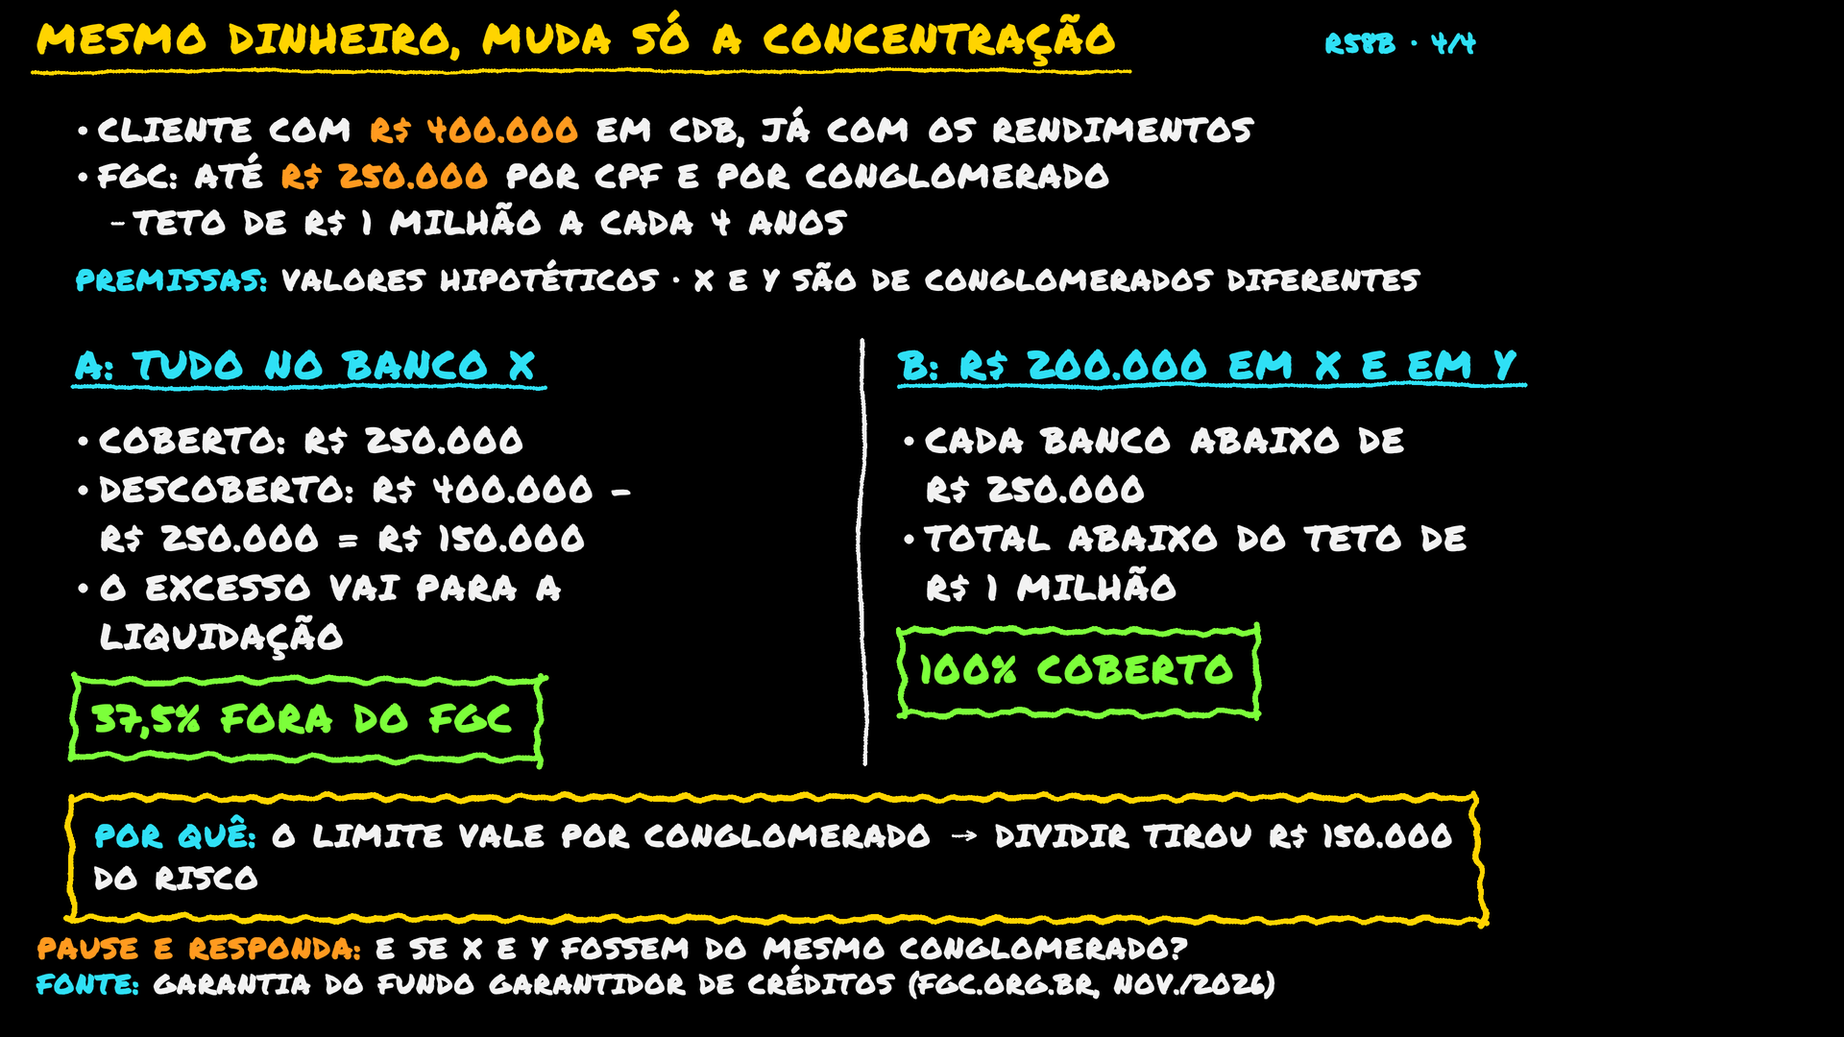
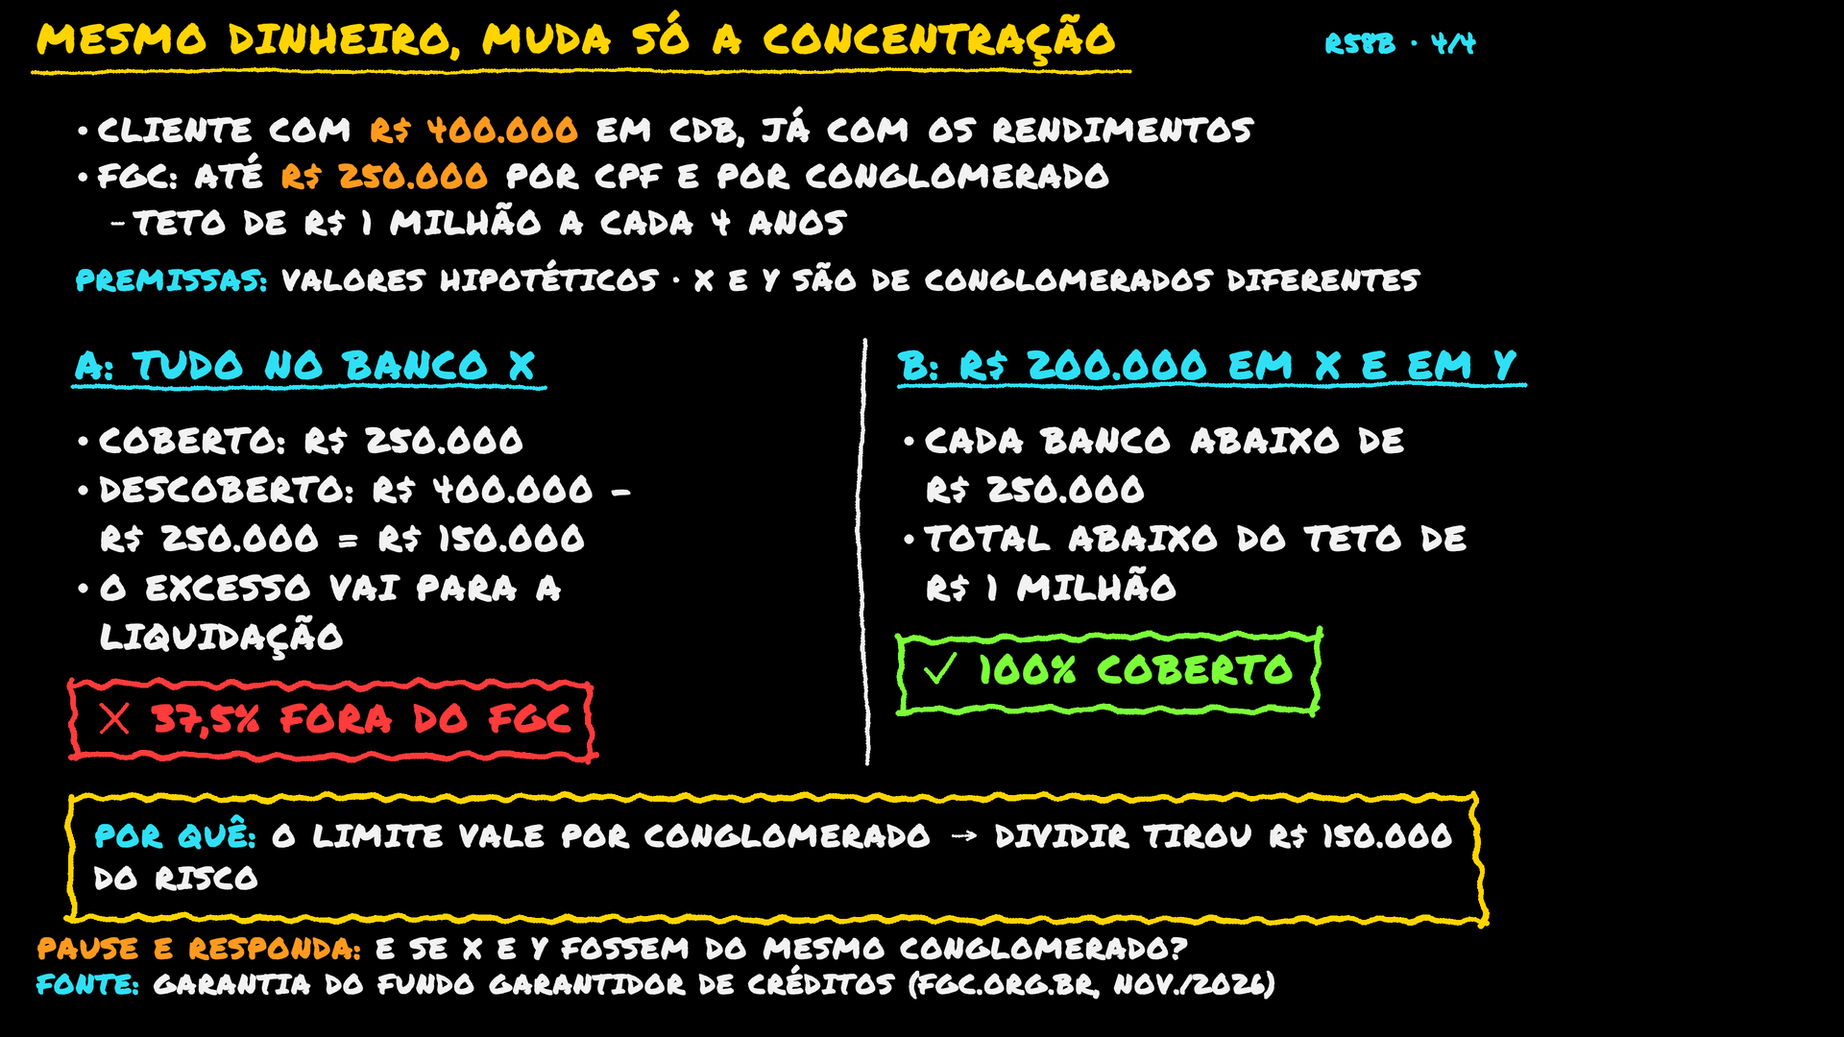
Skill: correções da revisão — cor do resultado, título antes da marca, referência só com sigla
- exercicio: cenário com cor própria (resultado e moldura); conferidor cobra
  rótulo também no destaque, na conclusão e no resultado com cor própria
- lousa sem molde: o título em elementos termina antes da marca
- tópicos: só blocos de texto contam (título não), R$ não conta como palavra
- número com sinal só dispensa rótulo se houver dígito; referência pede uma
  palavra de 5+ letras (sigla solta não basta); referencia true não quebra
- R58 teste: cenário A em vermelho com ✗; comparação antes × depois; zip novo

Claude-Session: https://claude.ai/code/session_01CDwz5c42EUMHSNj6ko5M3S

Changed region(s): [[0.4688, 0.5806, 0.7188, 0.7028], [0.0312, 0.6417, 0.3438, 0.7333], [0.4375, 0.4278, 0.4688, 0.4889]]

diff --git a/Skill Creator/roteiro-lousa-aprofundado/tests/test_conferir_lousas.py b/Skill Creator/roteiro-lousa-aprofundado/tests/test_conferir_lousas.py
@@ -165,6 +165,9 @@ class TesteCorComRotulo(unittest.TestCase):
     def test_numero_com_sinal_dispensa_rotulo(self):
         self.assertEqual(C.cor_sem_rotulo("MARÇO {vermelho:−29,90%} · NOVEMBRO {verde:+15,90%}"), [])
 
+    def test_sinal_sem_numero_nao_dispensa(self):
+        self.assertEqual(len(C.cor_sem_rotulo("{verde:+ LUCRO} · {vermelho:- SEM VALE}")), 2)
+
     def test_laranja_nao_precisa_de_rotulo(self):
         self.assertEqual(C.cor_sem_rotulo("BASE {laranja:R$ 30.000}"), [])
 
@@ -190,6 +193,15 @@ class TesteTopicosCurtos(unittest.TestCase):
         t = "- RETORNOS DE 3 ANOS: A = 6 · 10 · 14 · B = 2 · 10 · 18 · C = 4 · 12 · 20"
         self.assertEqual(C.topicos_longos(t), [])
 
+    def test_rs_nao_conta_como_palavra(self):
+        t = "- DESCOBERTO NO BANCO X: R$ 400.000 − R$ 250.000 = R$ 150.000 VÃO PARA A LIQUIDAÇÃO"
+        self.assertEqual(C.topicos_longos(t), [])
+
+    def test_titulo_numerado_nao_e_topico(self):
+        els = [{"tipo": "titulo", "texto": "2. UM TÍTULO NUMERADO COM MUITAS PALAVRAS QUE PASSA DO LIMITE DE DOZE"},
+               {"tipo": "texto", "texto": "- TÓPICO CURTO"}]
+        self.assertEqual(C.topicos_longos(C.texto_corpo(els)), [])
+
     def test_linha_sem_marcador_nao_e_topico(self):
         t = "{ciano:TARIFA DA SAÍDA, NAS DUAS:} REGRESSIVO 35% → 10% PELO TEMPO DE CADA APORTE · PROGRESSIVO"
         self.assertEqual(C.topicos_longos(t), [])
@@ -201,6 +213,7 @@ class TesteReferencia(unittest.TestCase):
         self.assertTrue(C.referencia_ok("LEI DO IR DA PREVIDÊNCIA (LEI 11.053/2004)"))
 
     def test_referencia_so_com_codigo_reprova(self):
+        self.assertFalse(C.referencia_ok("IN RFB 1.585/2015 (ART. 46)"))
         self.assertFalse(C.referencia_ok("LEI 11.053/2004"))
         self.assertFalse(C.referencia_ok("(LEI 11.053/2004)"))
         self.assertFalse(C.referencia_ok("LEI (11.053/2004)"))
@@ -213,7 +226,7 @@ def lousa(saida, **campos):
 
 def exercicio(saida, **campos):
     base = {"saida": saida, "molde": "exercicio", "referencia": "PROGRAMA DA PROVA C-PRO R (ITEM 4.5)",
-            "premissas": "VALORES HIPOTÉTICOS", "conclusao": "LIMITE POR CONGLOMERADO → DIVIDIR REDUZ O RISCO",
+            "premissas": "VALORES HIPOTÉTICOS", "conclusao": "REGRA: LIMITE POR CONGLOMERADO → DIVIDIR REDUZ O RISCO",
             "pergunta": "QUANTO FICA DESCOBERTO?"}
     return dict(base, **campos)
 
@@ -263,13 +276,13 @@ class TesteRegrasDaAula(unittest.TestCase):
 
     def test_conclusao_sem_mecanismo(self):
         aula = self.aula()
-        aula[1] = exercicio("r60a_4_resolucao.png", conclusao={"texto": "B É MELHOR"})
+        aula[1] = exercicio("r60a_4_resolucao.png", conclusao={"texto": "B É MELHOR", "cor": "branco"})
         pend, _ = C.regras_da_aula(aula)
         self.assertTrue(any("regra" in p and "efeito" in p for p in pend), pend)
 
     def test_conclusao_com_porque_passa(self):
         aula = self.aula()
-        aula[1] = exercicio("r60a_4_resolucao.png", conclusao="B PAGA MENOS PORQUE A BASE É SÓ O RENDIMENTO")
+        aula[1] = exercicio("r60a_4_resolucao.png", conclusao="✓ B PAGA MENOS PORQUE A BASE É SÓ O RENDIMENTO")
         pend, _ = C.regras_da_aula(aula)
         self.assertEqual(pend, [])
 
@@ -285,6 +298,40 @@ class TesteRegrasDaAula(unittest.TestCase):
         pend, avis = C.regras_da_aula(aula)
         self.assertEqual(pend, [])
         self.assertTrue(any("r60b_1" in a for a in avis), avis)
+
+    def test_referencia_true_e_pendencia_sem_quebrar(self):
+        aula = self.aula()
+        aula[2]["referencia"] = True
+        pend, _ = C.regras_da_aula(aula)
+        self.assertTrue(any("r60b_1" in p and "referência" in p for p in pend), pend)
+
+    def test_resultado_vermelho_sem_xis_e_pendencia(self):
+        aula = self.aula()
+        aula[1] = exercicio("r60a_4_resolucao.png", cenarios=[
+            {"titulo": "A", "passos": "- X", "resultado": "37,5% FORA DO FGC", "cor": "vermelho"},
+            {"titulo": "B", "passos": "- Y", "resultado": "✓ 100% COBERTO", "cor": "verde"}])
+        pend, _ = C.regras_da_aula(aula)
+        self.assertTrue(any("r60a_4" in p and "cor sem rótulo" in p for p in pend), pend)
+
+    def test_resultado_com_rotulo_e_resultado_padrao_passam(self):
+        aula = self.aula()
+        aula[1] = exercicio("r60a_4_resolucao.png", cenarios=[
+            {"titulo": "A", "passos": "- X", "resultado": "✗ 37,5% FORA DO FGC", "cor": "vermelho"},
+            {"titulo": "B", "passos": "- Y", "resultado": "100% COBERTO"}])
+        pend, _ = C.regras_da_aula(aula)
+        self.assertEqual(pend, [])
+
+    def test_destaque_verde_padrao_sem_rotulo_e_pendencia(self):
+        aula = self.aula()
+        aula[2] = lousa("r60b_1_abertura.png", destaque="DIVIDIR ENTRE BANCOS TIRA O EXCESSO DO RISCO")
+        pend, _ = C.regras_da_aula(aula)
+        self.assertTrue(any("r60b_1" in p and "cor sem rótulo" in p for p in pend), pend)
+
+    def test_destaque_branco_nao_precisa_de_rotulo(self):
+        aula = self.aula()
+        aula[2] = lousa("r60b_1_abertura.png", destaque={"texto": "DIVIDIR TIRA O EXCESSO", "cor": "branco"})
+        pend, _ = C.regras_da_aula(aula)
+        self.assertEqual(pend, [])
 
     def test_referencia_mal_escrita_e_pendencia(self):
         aula = self.aula()

diff --git a/Skill Creator/roteiro-lousa-aprofundado/scripts/conferir_lousas.py b/Skill Creator/roteiro-lousa-aprofundado/scripts/conferir_lousas.py
@@ -49,6 +49,7 @@ ROTULOS = {"vermelho": {"ERRADO", "ERRADA", "ERRADOS", "ERRADAS", "ERRO", "FALSO
                         "CUIDADO", "ATENCAO"},
            "verde": {"CERTO", "CERTA", "CORRETO", "CORRETA", "VERDADE", "VERDADEIRO", "VERDADEIRA", "REGRA"}}
 REFERENCIA = re.compile(r"^([^()]+)\(([^()]*\w[^()]*)\)\s*$")
+NUMERO_COM_SINAL = re.compile(r"^[+−-]\s?\d")
 MECANISMO = re.compile(r"→|\bporque\b|\bpois\b", re.IGNORECASE)
 
 
@@ -118,7 +119,7 @@ def cor_sem_rotulo(texto):
         palavras = set(normalizar(linha))
         for cor in ("vermelho", "verde"):
             trechos = [t.strip() for c, t in MARCA_COR.findall(linha) if c == cor]
-            sem_sinal = [t for t in trechos if not (t and t[0] in "+−-")]
+            sem_sinal = [t for t in trechos if not NUMERO_COM_SINAL.match(t)]
             if sem_sinal and not (any(x in linha for x in SIMBOLOS[cor]) or palavras & ROTULOS[cor]):
                 out.append((cor, linha.strip()))
     return out
@@ -133,7 +134,7 @@ def topicos_longos(texto, n=N_TOPICO):
             continue
         corpo = re.sub(r"\{[a-zA-Z#0-9]+:", " ", linha[m.end():]).replace("}", " ").replace("\u00a0", " ")
         corpo = re.sub(r"\[([^\]]+)\]", r" \1 ", corpo)
-        k = sum(1 for t in corpo.split() if any(c.isalpha() for c in t))  # número não conta como palavra
+        k = sum(1 for t in corpo.split() if t != "R$" and any(c.isalpha() for c in t))  # número e R$ não contam
         if k > n:
             out.append((k, linha.strip()))
     return out
@@ -143,7 +144,36 @@ def referencia_ok(r):
     """Descrição que qualquer aluno entende (2 palavras ou mais) e o identificador entre parênteses:
     "LEI DO IR DA PREVIDÊNCIA (LEI 11.053/2004)"."""
     m = REFERENCIA.match(str(r).strip())
-    return bool(m) and sum(1 for t in m.group(1).split() if any(c.isalpha() for c in t)) >= 2
+    if not m:
+        return False
+    palavras = [re.sub(r"[^\w]|\d|_", "", t) for t in m.group(1).split()]
+    palavras = [t for t in palavras if t]
+    return len(palavras) >= 2 and any(len(t) >= 5 for t in palavras)  # sigla solta ("IN RFB") não basta
+
+
+def texto_corpo(elementos):
+    """Só os blocos de texto (sem título e subtítulo): onde moram os tópicos."""
+    return texto_da_lousa([e for e in elementos if e.get("tipo") == "texto"])
+
+
+def linhas_de_cor(spec):
+    """Trechos que o molde pinta inteiros de verde ou vermelho (destaque, conclusão e resultado com cor
+    própria), escritos como {cor:texto} para a mesma checagem do texto. O resultado sem cor própria é a
+    resposta certa da conta, em verde, e não precisa de rótulo."""
+    def limpo(t):
+        return re.sub(r"\{[a-zA-Z#0-9]+:([^{}]*)\}", r"\1", str(t))
+    out = []
+    for chave in ("destaque", "conclusao"):
+        d = spec.get(chave)
+        if not d:
+            continue
+        texto, cor = (d, "verde") if isinstance(d, str) else (d.get("texto", ""), d.get("cor", "verde"))
+        if cor in ("verde", "vermelho"):
+            out.append(f"{{{cor}:{limpo(texto)}}}")
+    for c in spec.get("cenarios") or []:
+        if isinstance(c, dict) and c.get("cor") in ("verde", "vermelho"):
+            out.append(f"{{{c['cor']}:{limpo(c.get('resultado', ''))}}}")
+    return out
 
 
 def absolutas(texto):
@@ -165,13 +195,16 @@ def regras_da_aula(specs):
         if r is False:
             avis.append(f"{nome}: sem referência (referencia false); confirme que a lousa não traz norma, "
                         "dado nem conceito técnico")
-        elif not r:
+        elif not r or not isinstance(r, (str, list, tuple)):
             pend.append(f"{nome}: sem referência; escreva \"referencia\": \"DESCRIÇÃO SIMPLES (IDENTIFICADOR)\"")
         else:
             for x in MOLDES.referencias(spec):
                 if not referencia_ok(x):
                     pend.append(f"{nome}: referência \"{x}\" fora do formato \"DESCRIÇÃO SIMPLES (IDENTIFICADOR)\", "
                                 "que qualquer aluno entende (ex.: LEI DO IR DA PREVIDÊNCIA (LEI 11.053/2004))")
+        for cor, linha in (x for t in linhas_de_cor(spec) for x in cor_sem_rotulo(t)):
+            pend.append(f"{nome}: cor sem rótulo ({cor} em \"{linha[:90]}\"); junte ✓ ou ✗ (⚠ no alerta) "
+                        "ou uma palavra-rótulo (CERTO, REGRA, ERRADO, ALERTA), ou use \"cor\": \"branco\"")
         if vb and vb[1] == 4:
             bloco4.setdefault(vb[0], []).append(nome)
             p = str(spec.get("pergunta") or "").strip()
@@ -266,7 +299,7 @@ def main(argv=None):
         for cor, linha in cor_sem_rotulo(texto):
             pend.append(f"{nome}: cor sem rótulo ({cor} em \"{linha[:90]}\"); junte ✓ ou ✗ (⚠ no alerta) "
                         "ou uma palavra-rótulo (CERTO, REGRA, ERRADO, ALERTA)")
-        for k, linha in topicos_longos(texto):
+        for k, linha in topicos_longos(texto_corpo(els)):
             pend.append(f"{nome}: tópico com {k} palavras (máximo {N_TOPICO}): \"{linha[:90]}\"; "
                         "uma ideia por tópico, palavra-chave na frente")
         for linha in absolutas(texto_da_lousa([e for e in els if e.get("id") != "referencia"])):  # fonte não é afirmação

diff --git a/Skill Creator/roteiro-lousa-aprofundado/scripts/moldes.py b/Skill Creator/roteiro-lousa-aprofundado/scripts/moldes.py
@@ -82,9 +82,11 @@ def video_bloco(nome):
 def referencias(spec):
     """As referências do campo "referencia" (texto ou lista); vazia se o campo falta ou é false."""
     r = spec.get("referencia")
-    if not r:
-        return []
-    return [r] if isinstance(r, str) else [str(x) for x in r]
+    if isinstance(r, str):
+        return [r] if r.strip() else []
+    if isinstance(r, (list, tuple)):
+        return [str(x) for x in r if str(x).strip()]
+    return []  # false, true ou outro valor: nada a desenhar (o conferidor aponta)
 
 
 def _marca(L, spec, els):
@@ -426,7 +428,8 @@ def exercicio(L, spec, els):
             p = {"tipo": "texto", "id": f"ep{i}", "texto": _prender(c.get("passos", "")), "x": x, "y": yp, "largura": w,
                  "tamanho": t, "entrelinha": 1.42}
             r = {"tipo": "texto", "id": f"er{i}", "texto": _prender(c.get("resultado", "")), "x": x + 20,
-                 "y": yp + _medir(L, p)[1] + 50, "largura": w - 40, "tamanho": t + 4, "cor": "verde", "lista": False}
+                 "y": yp + _medir(L, p)[1] + 50, "largura": w - 40, "tamanho": t + 4, "cor": c.get("cor", "verde"),
+                 "lista": False}
             out += [p, r]
         return out
 
@@ -442,7 +445,8 @@ def exercicio(L, spec, els):
     for e in cs:
         e["y"] += desce
     y, fundo = y + desce, fundo + desce
-    els += cs + [{"tipo": "caixa", "alvo": f"er{i}", "margem": 20, "cor": "verde"} for i in (1, 2)]
+    els += cs + [{"tipo": "caixa", "alvo": f"er{i}", "margem": 20, "cor": c.get("cor", "verde")}
+                 for i, c in enumerate(cen, 1)]
     els.append({"tipo": "linha", "pontos": [[900, y - 10], [895, (y + fundo) / 2], [902, fundo]], "espessura": 4})
 
 
@@ -505,7 +509,17 @@ def montar(L, spec):
             els = expandir(L, s) + els
         finally:
             BASE = guarda
-    return els + list(spec.get("elementos", []))
+    extras = list(spec.get("elementos", []))
+    if w:  # título escrito à mão em "elementos" também termina antes da marca
+        extras = [_titulo_antes_da_marca(e, w) if e.get("tipo") == "titulo" else e for e in extras]
+    return els + extras
+
+
+def _titulo_antes_da_marca(el, w):
+    x = el.get("x", 40)
+    if not isinstance(x, (int, float)):
+        return el
+    return dict(el, largura=min(float(el.get("largura", 1500)), MARCA_X1 - w - 30 - x))
 
 
 def expandir(L, spec):

diff --git a/Skill Creator/roteiro-lousa-aprofundado/tests/test_moldes.py b/Skill Creator/roteiro-lousa-aprofundado/tests/test_moldes.py
@@ -240,6 +240,24 @@ class TesteRodape(unittest.TestCase):
         _, _, elementos = renderizar(spec)
         self.assertIn("referencia", por_id(elementos))
 
+    def test_lousa_sem_molde_titulo_termina_antes_da_marca(self):
+        spec = {"saida": "r58c_2_grafico.png", "referencia": "TEORIA DE CARTEIRAS DE MARKOWITZ (ARTIGO DE 1952)",
+                "elementos": [{"tipo": "titulo", "largura": 1500,
+                               "texto": "TRÊS ESTRADAS NO GRÁFICO DE RISCO × RETORNO DE A, B"}]}
+        avisos, _, _ = renderizar(spec)
+        self.assertEqual(avisos, [])
+
+    def test_resultado_do_cenario_com_cor_propria(self):
+        cen = [dict(EXERCICIO_V5["cenarios"][0], resultado="✗ 37,5% FORA DO FGC", cor="vermelho"),
+               dict(EXERCICIO_V5["cenarios"][1], resultado="✓ 100% COBERTO")]
+        avisos, _, elementos = renderizar(dict(EXERCICIO_V5, cenarios=cen))
+        self.assertEqual(avisos, [])
+        ids = por_id(elementos)
+        self.assertEqual(ids["er1"]["cor"], "vermelho")
+        self.assertEqual(ids["er2"]["cor"], "verde")
+        caixas = [e for e in elementos if e.get("tipo") == "caixa" and e.get("alvo") == "er1"]
+        self.assertEqual(caixas[0]["cor"], "vermelho")
+
     def test_comparacao_com_referencia_sem_avisos(self):
         avisos, _, _ = renderizar(dict(DUAS_RODOVIAS, saida="r50-1_2_duas-rodovias.png"))
         self.assertEqual(avisos, [])

diff --git a/Skill Creator/roteiro-lousa-aprofundado/references/lousas.md b/Skill Creator/roteiro-lousa-aprofundado/references/lousas.md
@@ -11,7 +11,7 @@ Gerador: `scripts/lousa.py` (Python 3 + Pillow; `--pptx` precisa de `python-pptx
 | Cores chapadas, sem brilho | paleta fixa |
 | Amarelo: títulos e molduras · ciano: subtítulos · branco: texto | `titulo`, `subtitulo`, `texto`; `caixa` sai amarela |
 | Laranja: destaque · verde: certo · vermelho: errado ou alerta | `{laranja:trecho}`, `{verde:…}`, `{vermelho:…}`; `riscar` sai vermelho |
-| **A cor nunca carrega o sentido sozinha** (quem não distingue verde de vermelho, ou vê a gravação comprimida, perde a informação) | verde vem com ✓ ou uma palavra-rótulo (CERTO, REGRA, VERDADE) na mesma linha; vermelho, com ✗ (⚠ no alerta) ou ERRADO, FALSO, MITO, ALERTA; número com sinal (+15,90%, −29,90%) dispensa. Número neutro vai em laranja, não em verde ou vermelho |
+| **A cor nunca carrega o sentido sozinha** (quem não distingue verde de vermelho, ou vê a gravação comprimida, perde a informação) | verde vem com ✓ (ou ↑) ou uma palavra-rótulo (CERTO, REGRA, VERDADE) na mesma linha; vermelho, com ✗ (⚠ no alerta, ↓ na queda) ou ERRADO, FALSO, MITO, ALERTA; número com sinal (+15,90%, −29,90%) dispensa. Vale também para `destaque` e `conclusao`, que saem em verde se você não der outra `cor` (use `"cor": "branco"` quando a frase não for certo/errado), e para o resultado de cenário com `cor` própria. Número neutro vai em laranja |
 | Marca do vídeo e do bloco no topo, à direita do título: `R58A · 2/4` | automática, tirada do nome do PNG; o título termina antes dela |
 | Rodapé de linhas curtas, cada uma em uma linha: síntese, pergunta, legenda e fonte | campos `sintese`, `pergunta`, `legenda` e `referencia` (seção 4); o molde se acomoda acima |
 | Números de lista em circulinhos; tópicos sem tabela com grade | linha que começa com `1. ` vira circulinho; `- ` tópico; 2 espaços + `- ` subtópico |
@@ -65,7 +65,7 @@ O que essa lousa faz: desenha a metáfora; traz a condição de uso (declaraçã
 | `metafora` | `titulo`, `itens`: 2 a 4 `[{desenho, cor, extra, cor_extra, nome, legenda}]`, sobre uma estrada (`"estrada": false` tira) |
 | `topicos` | `titulo`, `formula` ({antes, num, den}), `desenho`, `subtitulo`, `texto`, `destaque`, `largura_texto` |
 | `colunas` | `titulo`, `formula`, `desenho`, `topo`, `colunas`: 2 ou 3 `[{titulo, texto}]`, `destaque` |
-| `exercicio` | `titulo`, `dados` (enunciado em tópicos), `premissas` (obrigatório; sai logo abaixo dos dados), `cenarios`: exatamente 2 `[{titulo, passos, resultado}]` (resultado em verde, emoldurado), `conclusao` (destaque na base, no formato regra → efeito) |
+| `exercicio` | `titulo`, `dados` (enunciado em tópicos), `premissas` (obrigatório; sai logo abaixo dos dados), `cenarios`: exatamente 2 `[{titulo, passos, resultado, cor}]` (resultado emoldurado; em verde é a resposta certa da conta; no cenário que dá errado, `"cor": "vermelho"` e ✗ no resultado), `conclusao` (destaque na base, no formato regra → efeito) |
 | `hp12c` | `titulo`, `passos`: `[{nome, teclas, visor, leitura}]` — só se o professor pedir as teclas na lousa |
 | `pegadinhas` | `titulo`, `itens`: `[{frase, correcao, veredito}]` — fora do padrão atual (o professor tirou o bloco de pegadinhas) |
 
@@ -110,7 +110,7 @@ Lista: `python3 scripts/lousa.py --desenhos`. Hoje: alvo, ampulheta, balanca, ba
 | 8 palavras seguidas iguais à fala do mesmo vídeo e bloco | a lousa complementa, não copia (compara sem maiúsculas, acentos, pontuação e `{cor:}`) |
 | lousa sem fala correspondente no roteiro | roteiro errado ou cabeçalho do vídeo fora do padrão: sem a fala, a repetição não seria conferida |
 | menção à apostila | a apostila é fonte interna: nunca aparece na lousa |
-| verde ou vermelho sem ✓/✗ ou palavra-rótulo na mesma linha | a cor nunca carrega o sentido sozinha |
+| verde ou vermelho sem ✓/✗ ou palavra-rótulo na mesma linha (no texto, no destaque e na conclusão verdes e no resultado com cor própria) | a cor nunca carrega o sentido sozinha |
 | tópico com mais de 12 palavras (números não contam) | uma ideia por tópico, palavra-chave na frente |
 | lousa sem `referencia`, ou referência sem a descrição simples antes do identificador entre parênteses | conceito técnico, norma e dado têm fonte que o aluno entende |
 | primeira lousa sem `legenda` · Bloco 4 sem `pergunta` (terminada em "?") · último vídeo sem `sintese` | legenda uma vez; recuperação no fim de cada vídeo; síntese no fim da aula |

diff --git a/Skill Creator/roteiro-lousa-aprofundado/SKILL.md b/Skill Creator/roteiro-lousa-aprofundado/SKILL.md
@@ -159,7 +159,7 @@ Leia `references/lousas.md` antes da primeira lousa: tem o padrão visual, os mo
 
 1. **Premissas à vista.** Todo exercício tem `premissas`: valores hipotéticos ou reais, bruto ou líquido quando houver retorno, o que ficou de fora (IR, custos, inflação) e a condição que o cenário exige. Exemplo com números fora do exercício leva a condição na própria linha.
 2. **Regra → efeito.** Ao comparar dois cenários, a conclusão diz qual regra produziu a diferença, não só o resultado.
-3. **A cor nunca sozinha.** Verde com ✓ ou palavra-rótulo (CERTO, REGRA); vermelho com ✗, ⚠ ou ERRADO, FALSO, ALERTA. Número neutro em laranja. A primeira lousa da aula leva a `legenda` das cores.
+3. **A cor nunca sozinha.** Verde com ✓ ou palavra-rótulo (CERTO, REGRA); vermelho com ✗, ⚠ ou ERRADO, FALSO, ALERTA; vale para destaque e conclusão (verdes por padrão) e para o cenário que dá errado (resultado em vermelho com ✗). Número neutro em laranja. A primeira lousa da aula leva a `legenda` das cores.
 4. **Onde o aluno está.** A marca `R58A · 2/4` sai sozinha no topo. O Bloco 4 de cada vídeo fecha com a `pergunta` de recuperação ("PAUSE E RESPONDA: …?"), e o do último vídeo, também com a `sintese` da aula em uma linha.
 5. **Tópico curto.** Uma ideia por tópico, palavra-chave na frente, no máximo 12 palavras (números não contam); passou disso, vira subtópico.
 6. **Referência que qualquer aluno entende.** Toda lousa com conceito técnico, norma ou dado leva `referencia`: `"DESCRIÇÃO SIMPLES (IDENTIFICADOR)"`, como `"IR DA PREVIDÊNCIA (LEI 11.053/2004)"`. Só o que você consultou; nunca a apostila; história ou caso ilustrativo não leva referência.
